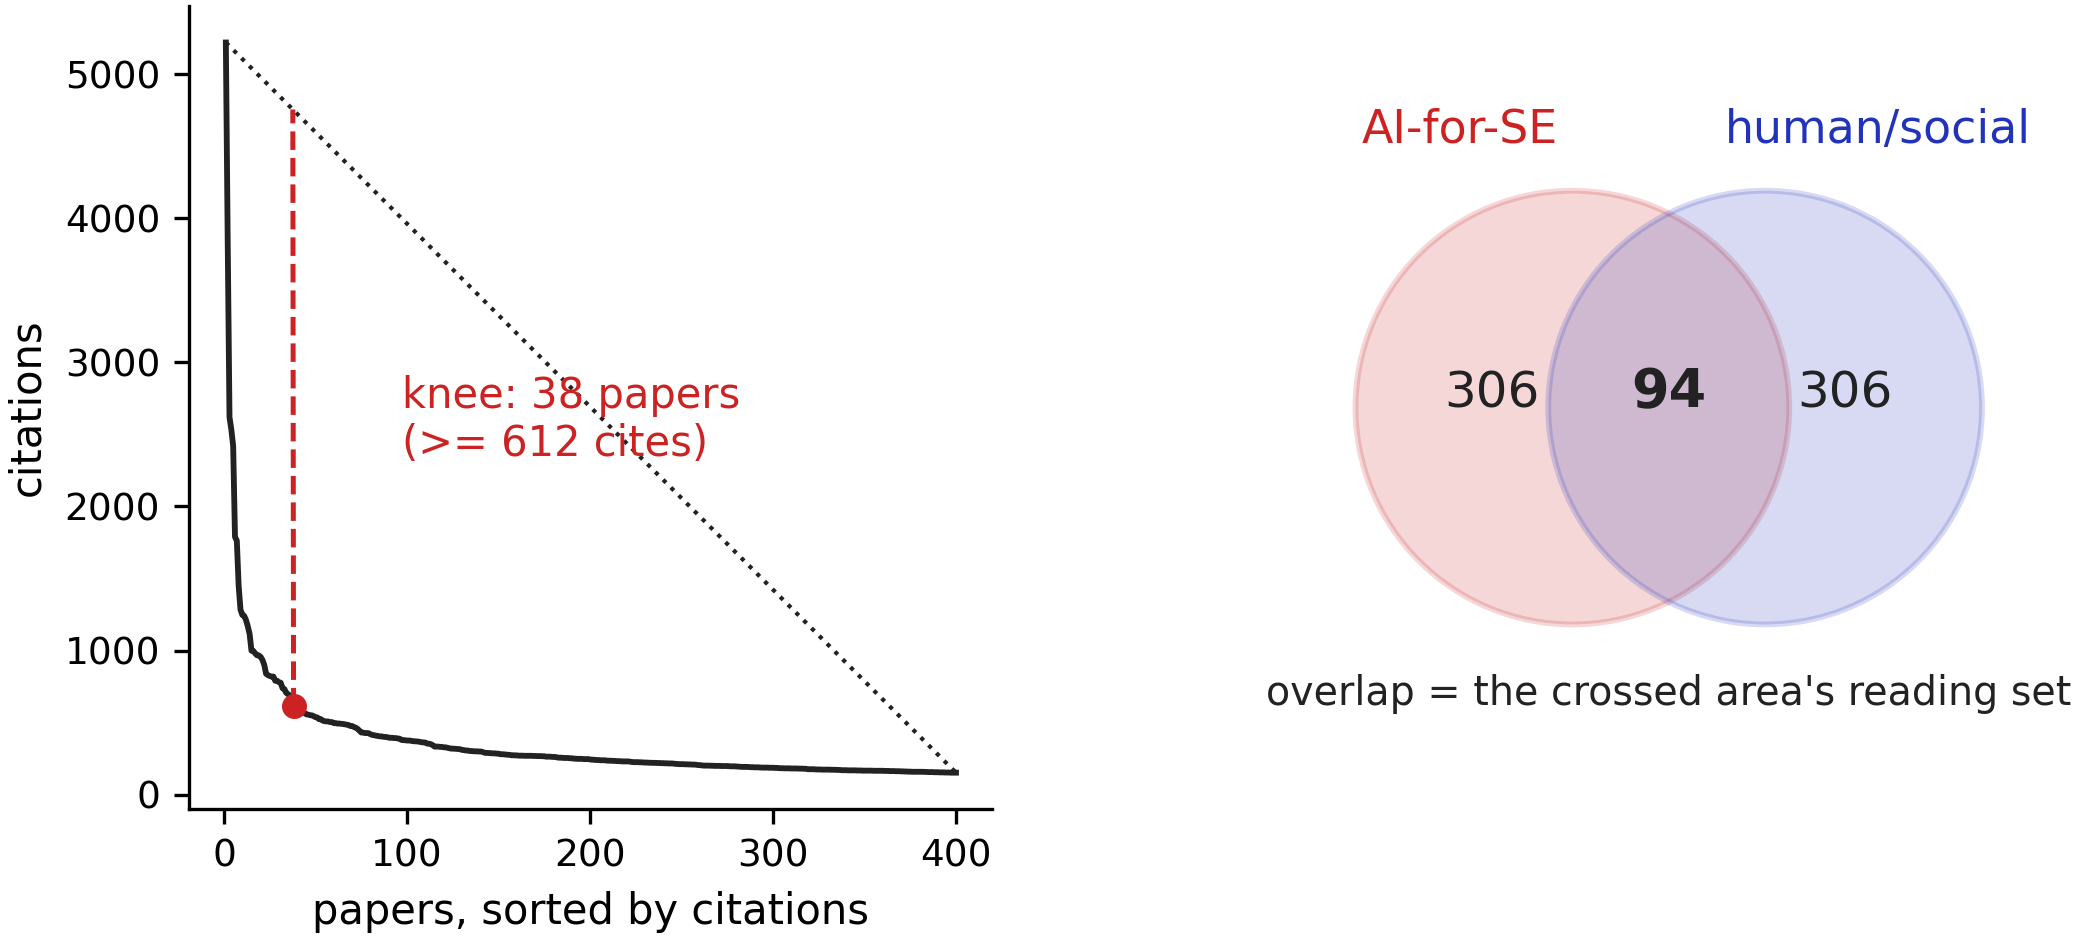
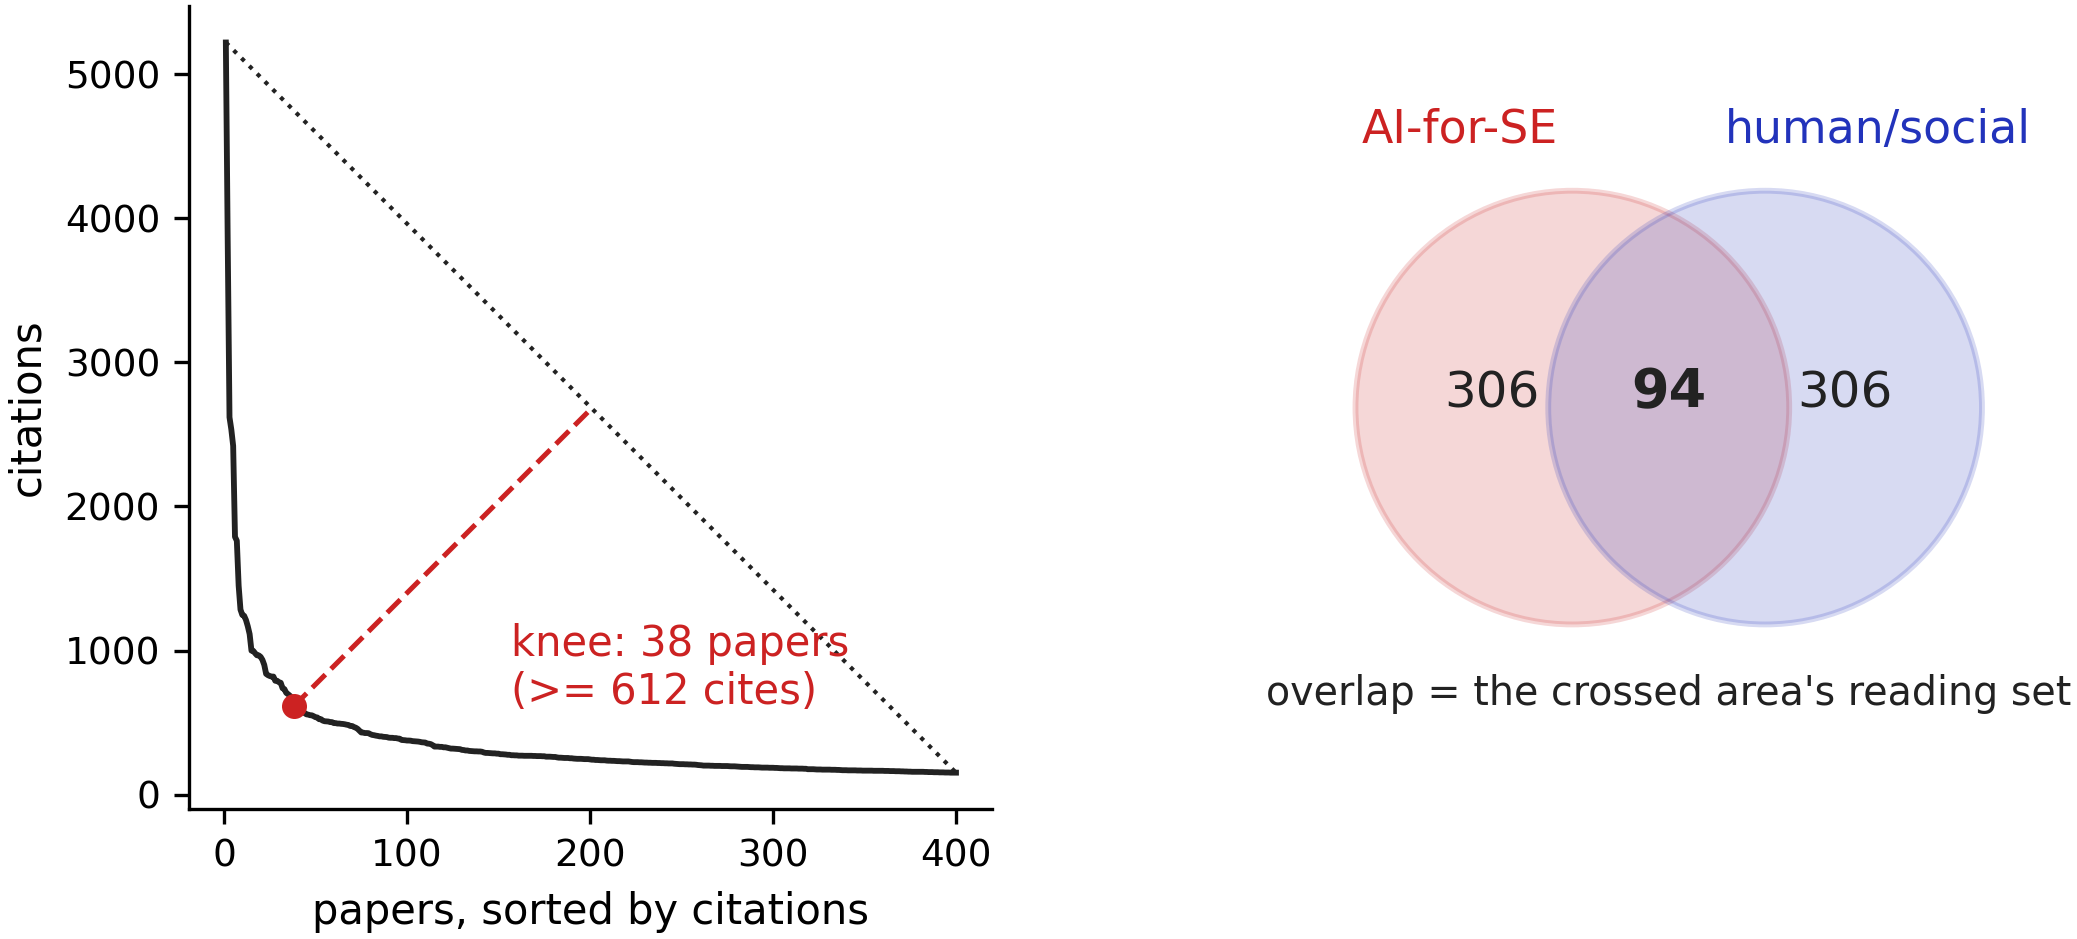
fix: true perpendicular to chord (foot formula); venn reports the 38 above-knee papers
Foot of perpendicular was t=(u+v)/2, drawing a vertical drop;
correct is t=(u-v+1)/2. Knee-within-knee dropped: reading set is
the goal query's 38 above-knee papers (30 abstracts); coded venn
now TPH=3, twelve flagless.

diff --git a/litfig.py b/litfig.py
@@ -66,14 +66,14 @@ ax1.plot(range(1, n + 1), cites, color=INK, lw=1.4)
 ax1.plot([1, n], [c0, cn], color=INK, ls=":", lw=1.0)
 # perpendicular from chord to knee, in normalized space
 u, v = knee / (n - 1), (cites[knee] - cn) / (c0 - cn)
-t = (u + v) / 2  # foot of perpendicular on chord v = 1 - u
+t = (u - v + 1) / 2  # foot of perpendicular on chord v = 1 - u
 fx, fy = 1 + t * (n - 1), cn + (1 - t) * (c0 - cn)
 ax1.plot([knee + 1, fx], [cites[knee], fy], color=RED, ls="--",
          lw=1.2)
 ax1.plot([knee + 1], [cites[knee]], "o", color=RED, ms=5)
 ax1.annotate("knee: %d papers\n(>= %d cites)" % (knee + 1, cites[knee]),
              xy=(knee + 1, cites[knee]),
-             xytext=(knee + 60, c0 * 0.45), fontsize=10, color=RED)
+             xytext=(knee + 120, c0 * 0.12), fontsize=10, color=RED)
 ax1.set_xlabel("papers, sorted by citations", fontsize=10)
 ax1.set_ylabel("citations", fontsize=10)
 ax1.tick_params(labelsize=9)

diff --git a/sec0/lit.tex b/sec0/lit.tex
@@ -56,9 +56,9 @@ only after the machine has shrunk four hundred papers to dozens.
 \begin{figure}[t]
 \includegraphics[width=0.85\linewidth]{fig/lit2}
 \centering
-\caption{The reading set: a second knee, inside the 94,
-keeps 15 papers, coded here against three topic flags.
-No paper occupies all three circles.
+\caption{The reading set: the 38 papers above the knee of
+Figure~\ref{fig:lit}, coded against three topic flags.
+Only three papers occupy all three circles.
 Regenerate via {\em litfig.py}.}
 \label{fig:lit2}
 \end{figure}
